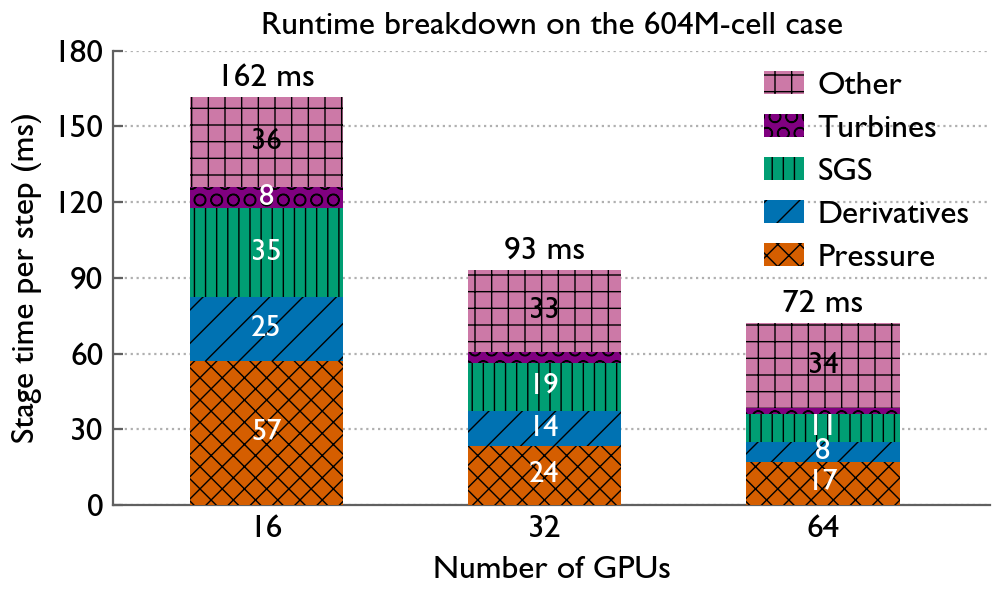
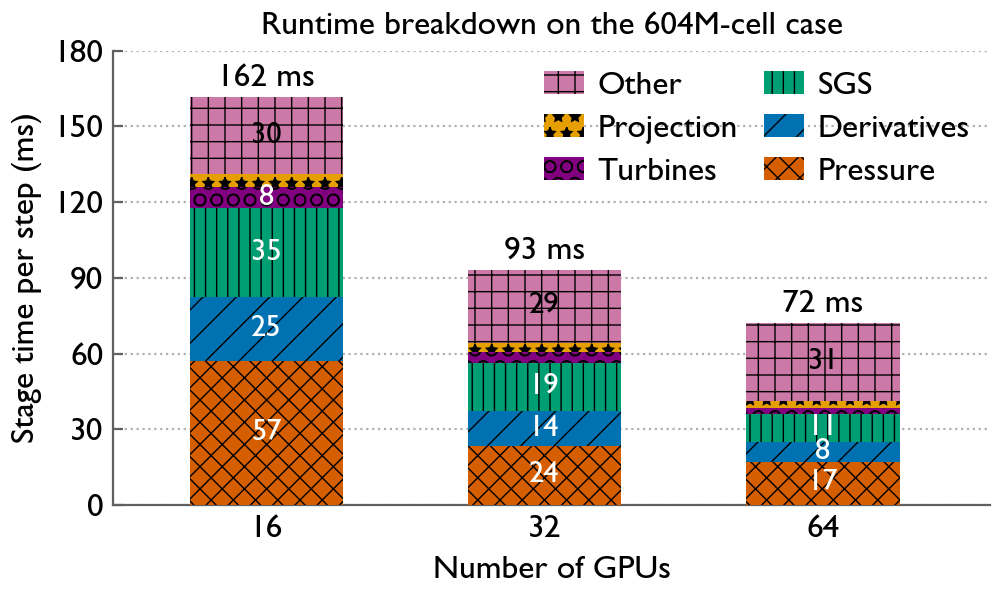
explain Others

diff --git a/figs/make_analysis_figs.py b/figs/make_analysis_figs.py
@@ -182,18 +182,21 @@ DERIV_NZ400 = [0.02373509, 0.01079348, 0.006440276]
 SGS_NZ400 = [0.03306066, 0.01535980, 0.009332211]
 deriv = [c * d / (d + s) for c, d, s in zip(DS_COMBINED, DERIV_NZ400, SGS_NZ400)]
 sgs = [c - d for c, d in zip(DS_COMBINED, deriv)]
-# Projection has no dedicated treatment in the paper and is folded into Other.
+# Projection (ProjectVelocity) is drawn as its own segment; Other holds the
+# remaining routines elided in Algorithm 1.
 PROJECTION = [0.0053, 0.0036, 0.0028]
 OTHER = [0.0304, 0.0290, 0.0309]
 # Colors and hatches follow the PSSG lists in order, series i taking
-# PALETTE1[i] (the palette with black removed) and HATCHES[i].
+# PALETTE1[i] (the palette with black removed) and HATCHES[i], except that
+# Projection and Other swap slots 4 and 5: Other keeps rose (stgother in
+# Algorithm 1) and its direct labels stay legible over "++" rather than "**".
 stages = [
     ("Pressure",     [0.0570, 0.0235, 0.0172], VERM,   "white", "xxx"),
     ("Derivatives",  deriv,                    BLUE,   "white", "//"),
     ("SGS",          sgs,                      GREEN,  "white", "|||"),
     ("Turbines",     [0.0082, 0.0041, 0.0020], PURPLE, "white", "OO"),
-    ("Other",        [o + p for o, p in zip(OTHER, PROJECTION)],
-                                               ROSE,   "black", "++"),
+    ("Projection",   PROJECTION,               ORANGE, "black", "**"),
+    ("Other",        OTHER,                    ROSE,   "black", "++"),
 ]
 
 fig, ax = plt.subplots(figsize=ps.FIGSIZE)
@@ -223,8 +226,8 @@ ax.set_ylabel("Stage time per step (ms)")
 ax.set_title("Runtime breakdown on the 604M-cell case")
 ax.grid(True, axis="y")
 handles, labels = ax.get_legend_handles_labels()
-ax.legend(handles[::-1], labels[::-1], loc="upper right",
-          handletextpad=0.4, borderaxespad=0.2, handlelength=1.2,
+ax.legend(handles[::-1], labels[::-1], loc="upper right", ncol=2,
+          columnspacing=0.8, handletextpad=0.4, borderaxespad=0.2, handlelength=1.2,
           labelspacing=0.35)
 fig.tight_layout(pad=0.3)
 save(fig, "fig_stagescale")

diff --git a/results.tex b/results.tex
@@ -118,9 +118,9 @@ solver runs 90$\times$ faster than the fastest CPU configuration
 \begin{figure}[h]
     \centering
     \includegraphics[width=\linewidth]{figs/fig_stagescale.pdf}
-    \caption{Decomposition of GPU LESGO runtime for the strong scaling cases.
-    \texttt{Other} includes the velocity projection and the routines elided
-    in Algorithm~\ref{alg:step}.}
+    \caption{Decomposition of GPU LESGO runtime for the strong scaling cases.}
+    % \texttt{Other} includes the velocity projection and the routines elided
+    % in Algorithm~\ref{alg:step}.}
     \label{fig:stagescale}
     \vspace{-0.05in}
 \end{figure}
@@ -132,15 +132,14 @@ the SGS stage from 35\,ms to 11\,ms, and the turbine stage from 8\,ms
 to 2\,ms, 
 while the pressure solver exhibits
 superlinear scaling up to 32 GPUs as thinner slab dimensions deepen the
-tridiagonal pipeline (Section~\ref{sec:opt-tridag}). At high GPU
-counts, execution time is bounded by a constant overhead. 
-This overhead is primarily from the \texttt{Other} stage, which comprises
-latency-bound collectives and the residual kernel launch budget after
-batching (Section~\ref{sec:opt-batch}). The dominant collective is the
-global CFL reduction required for adaptive time stepping and
-turbine-forcing load balance. These costs reflect algorithmic minima
-governed by interconnect and host-runtime latency, not inefficiencies in
-the GPU kernels themselves.
+tridiagonal pipeline (Section~\ref{sec:opt-tridag}). The \texttt{Other}
+stage holds a fixed cost of about 30\,ms per step. Its main
+component is the host-side stage of the turbine coupling, whose cost
+depends on the turbine count and the blade discretization rather than
+on the grid size. The stage also includes collectives and kernel launch
+time. The dominant collective is the global CFL reduction required for 
+adaptive time stepping and turbine-forcing load balance. 
+Together, these components form a fixed per-step cost.
 
 \begin{figure}[h]
 \centering

diff --git a/paper.tex b/paper.tex
@@ -68,12 +68,13 @@
 % Stage-tag colors for Algorithm 1: exact PSSG palette values, identical
 % to the fig_stagescale bars.
 % Pressure=vermillion, Derivatives=blue, SGS=green, Turbines=purple,
-% Other=rose (includes projection). Convection has no bar (gray, off-palette).
+% Projection=orange, Other=rose. Convection has no bar (gray, off-palette).
 \definecolor{stgderiv}{RGB}{0,114,178}   % derivatives  (blue       #0072B2)
 \definecolor{stgsgs}{RGB}{0,158,115}     % SGS          (green      #009E73)
 \definecolor{stgconv}{RGB}{100,100,100}  % convection   (gray, off-palette)
 \definecolor{stgturb}{RGB}{128,0,128}    % turbines     (purple     #800080)
 \definecolor{stgpress}{RGB}{213,94,0}    % pressure     (vermillion #D55E00)
+\definecolor{stgproj}{RGB}{230,159,0}    % projection   (orange     #E69F00)
 \definecolor{stgother}{RGB}{204,121,167} % other        (rose       #CC79A7)
 % Colored lead words for the time-step walkthrough (Section III).
 \newcommand{\stagelead}[2]{{\leavevmode\sffamily\bfseries\color{#1}#2}}

diff --git a/baseline.tex b/baseline.tex
@@ -43,7 +43,7 @@ optimize them on GPUs.
 \STATE \hspace{1.3em}\textcolor{stgpress}{PoissonFFT()}
 \STATE \hspace{1.3em}\textcolor{stgpress}{PoissonTridiag()}\algptr{stgpress}{sec:opt-tridag}
 \STATE \hspace{1.3em}\textcolor{stgpress}{PoissonInvFFT()}
-\STATE ProjectVelocity()
+\STATE \textcolor{stgproj}{ProjectVelocity()}
 \ENDFOR
 \STATE \texttt{Finalize()}
 \end{algorithmic}
